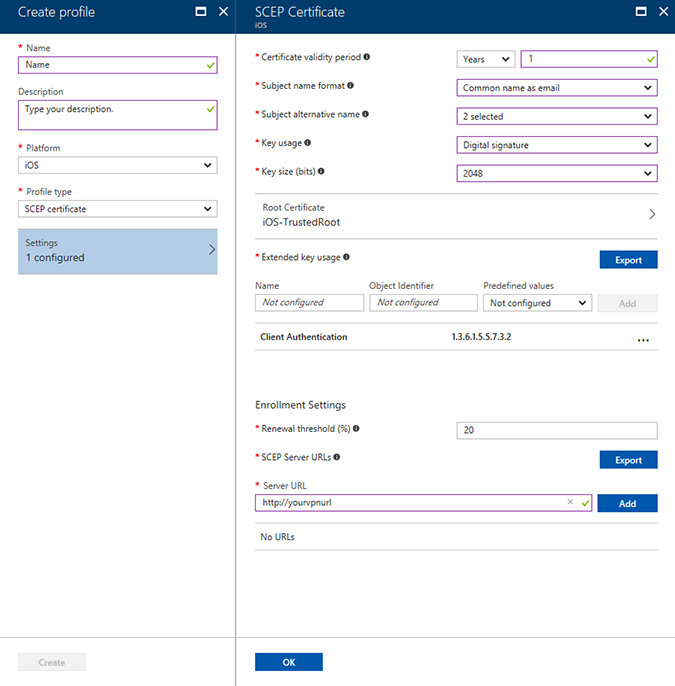
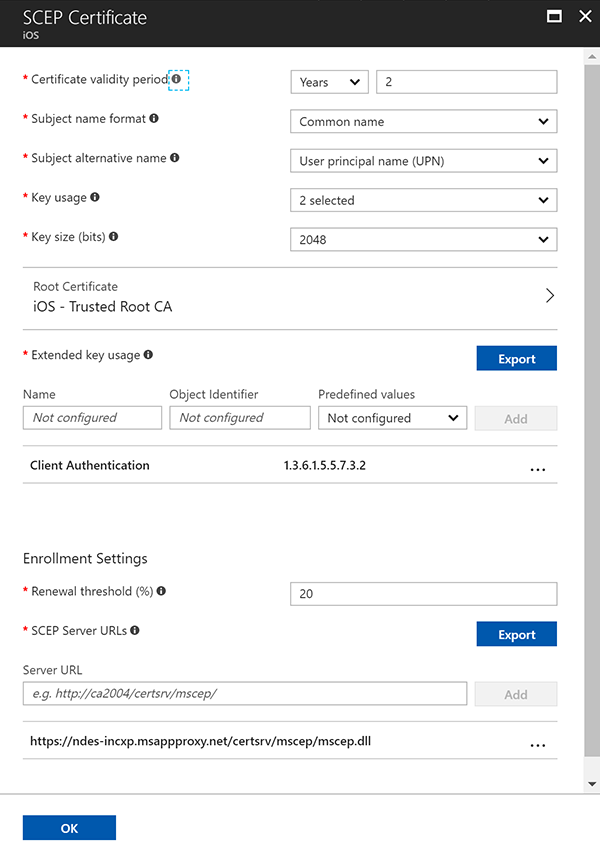
update after review

diff --git a/intune/vpn-setting-configure-per-app.md b/intune/vpn-setting-configure-per-app.md
@@ -8,7 +8,7 @@ keywords:
 author: mattbriggs
 ms.author: mabrigg
 manager: angrobe
-ms.date: 09/21/2017
+ms.date: 10/5/2017
 ms.topic: article
 ms.prod:
 ms.service: microsoft-intune
@@ -33,18 +33,19 @@ You can specify which managed apps can use your VPN on Intune managed iOS device
 
 ## Prerequisites for the Per-App VPN
 
-To prove its identity, the VPN server presents the certificate that must be accepted without a prompt by the device. To ensure the automatic approval of the certificate, provision a trusted certificate profile that contains the VPN server's root certificate issued by the Certificate Authority (CA). 
+To prove its identity, the VPN server presents the certificate that must be accepted without a prompt by the device. To ensure the automatic approval of the certificate, create a trusted certificate profile that contains the VPN server's root certificate issued by the Certificate Authority (CA). 
 
-You need to:
+Export the certificate and add the CA.
 
- - Export a trusted root certificate exported from your VPN server.  
-Verify that your VPN server uses Certificate-based Authentication. The root certificate is issued by the CA to the VPN server. Go to your VPN’s admin console and export the certificate.
- - Add the name of the CA that issued the certificates for authentication.  
-If the CA presented by the device matches one of the CAs in the Trusted CA list on the VPN server, then the VPN server successfully authenticates the device.
+1. Open the administration console on your VPN server.
+2. Verify that your VPN server uses Certificate-based Authentication. 
+3. Export the trusted root certificate file. It has a .cer extension, and you add it when creating a trusted certificate profile.
+4. Add the name of the CA that issued the certificate for authentication to the VPN server.
+    If the CA presented by the device matches one of the CAs in the Trusted CA list on the VPN server, then the VPN server successfully authenticates the device.
 
 ## Create a  group for your VPN users
 
-You need to create an Azure Active Directory (Azure AD) group to contain the members who have access to the per-App VPN.
+Create or choose an existing group in Azure Active Directory (Azure AD) to contain the members who have access to the per-App VPN.
 
 1. Open the Azure portal. Choose **More Services** > **Monitoring + Management** > **Intune**.
 2. Choose **Groups** and click **New group**.
@@ -67,7 +68,8 @@ Import the VPN server's root certificate issued by the CA into a profile created
     2. Type the **Description**.
     3. Select **iOS** for the **Platform**.
     4. Select **Trusted certificate** for the **Profile type**.
-4. Click the folder icon and browse to your VPN certificate (.cer file). Click **OK**.
+4. Click the folder icon and browse to your VPN certificate (.cer file) that you exported from your VPN administration console. Click OK
+
 5. Click **Create**.
 
     ![Create a trusted certificate profile](media\vpn-per-app-create-trusted-cert.png)
@@ -83,26 +85,25 @@ The trusted root certificate profile allows the iOS to automatically trust the V
     2. Type the **Description**.
     3. Select **iOS** for the **Platform**.
     4. Select **SCEP certificate** for the **Profile type**.
-9. Select **Years** and type `1` for **Certificate validity period**.
-10. Select **Common name as email** for **Subject name format**.
-11. Select **Email address** and **User principle name (UPN)** for **Subject alternative name**.
-12. Select **Digital signature** for **Key usage**.
-13. Select **2048** for **Key size (bits)**.
-14. Click Root Certificate and select a SCEP certificate. Click **OK**.
-15. Type `Client Authentication` in **Name** for **Extended key usage**.
-16. Type `1.3.6.1.5.5.7.3.2` in **Object Identifier**.
-17. Click **Add**.
-18. Type the **Server URL** and click **Add**.
-19. Click **OK**.
-20. Click **Create**.
-
+4. Select **Years** and type `2` for **Certificate validity period**.
+5. Select **Common name** for **Subject name format**.
+6. Select **User principle name (UPN)** for **Subject alternative name**.
+7. Select **Digital signature** and **Key encipherment** for **Key usage**.
+8. Select **2048** for **Key size (bits)**.
+9. Click Root Certificate and select a SCEP certificate. Click **OK**.
+10. Type `Client Authentication` in **Name** for **Extended key usage**.
+11. Type `1.3.6.1.5.5.7.3.2` in **Object Identifier**.
+12. Click **Add**.
+13. Type the ***Server URL*** and click **Add**.
+14. Click **OK**.
+15. Click **Create**.
     ![Create a SCEP certificate profile](media\vpn-per-app-create-SCEP-cert.png)
 
 ## Create a Per-App VPN profile
 
 The VPN profile contains the SCEP certificate carrying the client credentials, the connection information to the VPN, and the Per APP VPN flag to enable the Per App VPN feature for use by the iOS application.
 
-1. Open the Azure portal. Choose **More Services** > **Monitoring + Management** > **Intune**. 
+1. Open the Azure portal. Choose **More Services** > **Monitoring + Management** > **Intune**.
 2. Choose **Device configuration**, and then click **Profiles**.
 3. Click **+ Create profile**. In **Create profile**:
     1. Type the **Name**.
@@ -123,7 +124,6 @@ The VPN profile contains the SCEP certificate carrying the client credentials, t
     3. Click **OK**.
 6. Click **OK**.
 7. Click **Create**.
-
     ![Create a Per-App VPN profile](media\vpn-per-app-create-VPN-profile.png)
 
 
@@ -134,15 +134,16 @@ After adding your VPN profile, associate the app and Azure AD group to the profi
 1. Open the Azure portal. Choose **More Services** > **Monitoring + Management** > **Intune**.
 2. Choose **Mobile Apps**.
 3. Click **Apps**.
-6. Select the app from the list of apps.
-7. Click **Assignments.**
-8. Click **Select groups**, select the group you defined earlier. Click **Select**.
-9. Select **Required** for the **Type** in the **Assignments** blade.
-10. Select your VPN definition for the **VPNS**.
-11. Click **Save**.
+4. Select the app from the list of apps.
+5. Click **Assignments.**
+6. Click **Select groups**, select the group you defined earlier. Click **Select**.
+7. Select **Required** for the **Type** in the **Assignments** blade.
+8. Select your VPN definition for the **VPNS**.
+    > [!NOTE]  Sometimes the VPN definition takes up to a minute to retrieve the value. Wait for 3-5 minutes before your click **Save**.
 
+9. Click **Save**.
+  
     ![Associate an app with the VPN](media\vpn-per-app-App-to-VPN.png)
-
 
 ## Verify the connection on the iOS device
 
